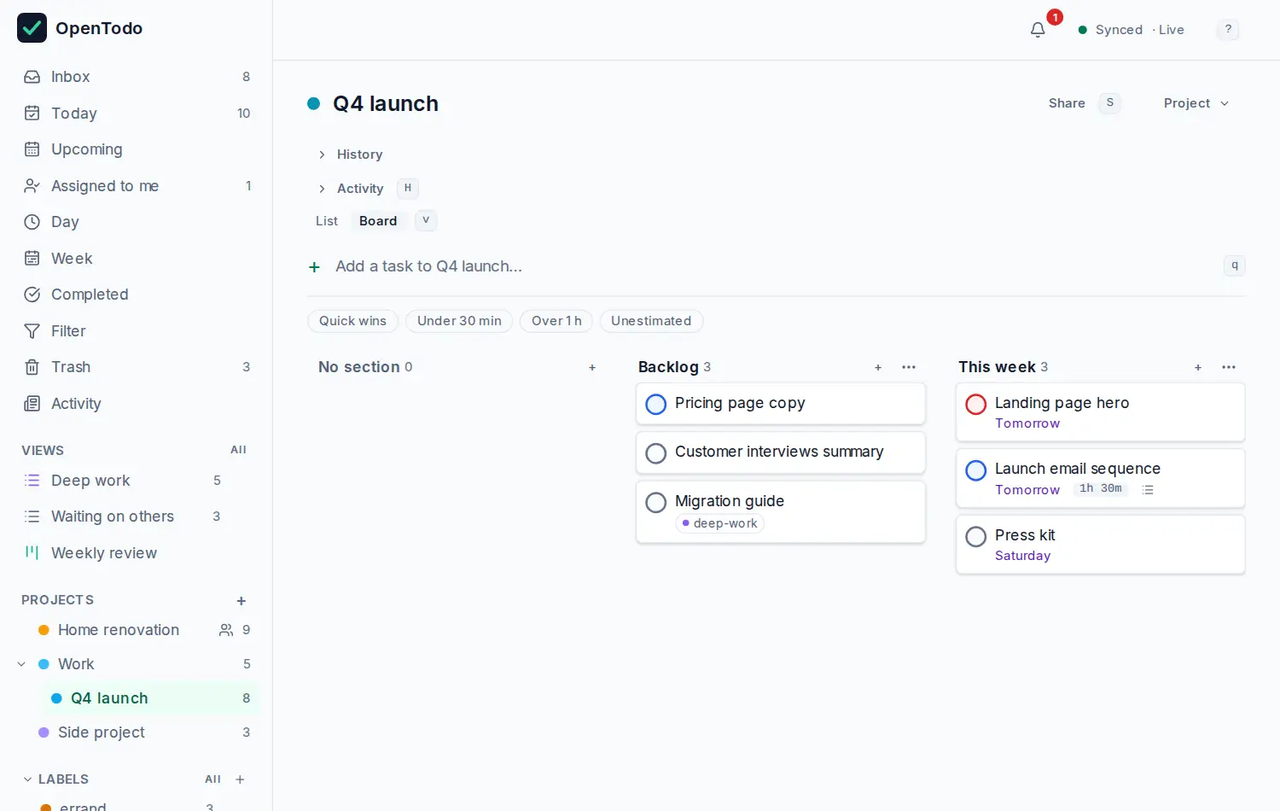
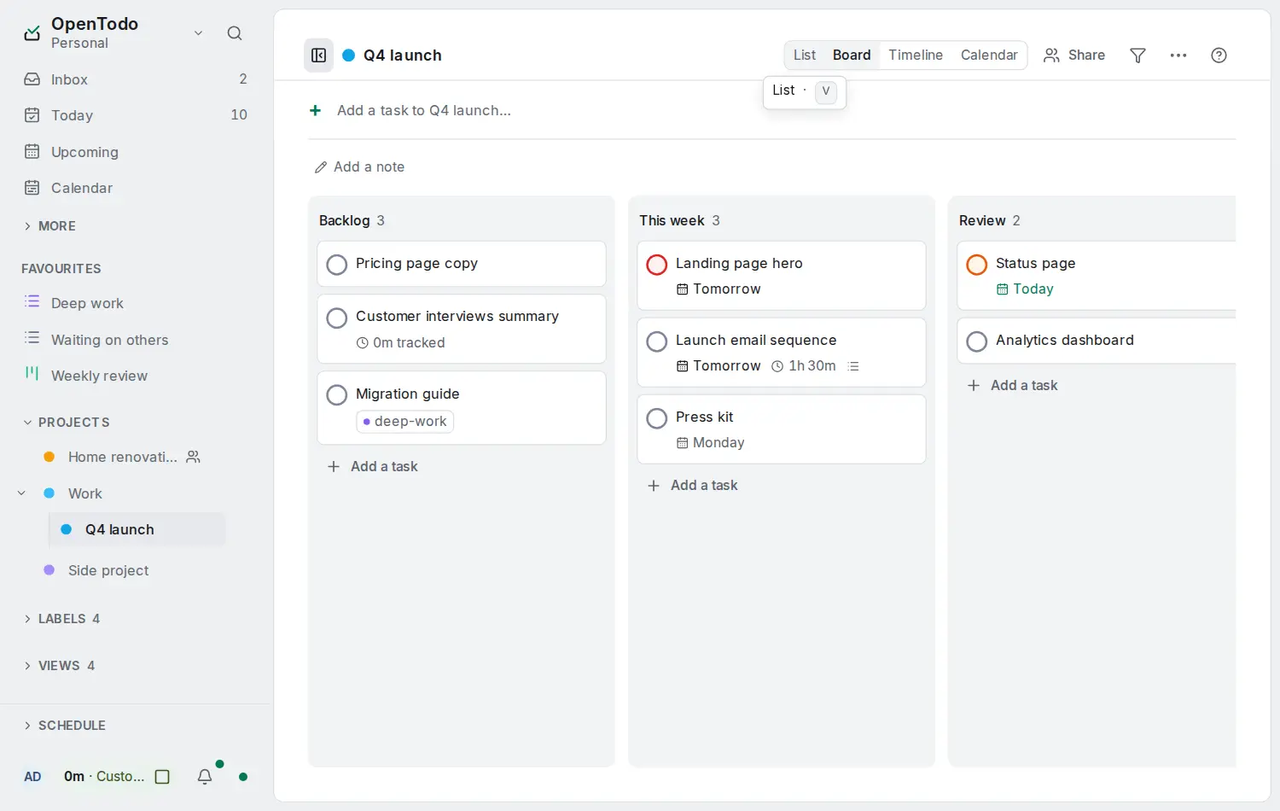
Brand: the tray mark on every remaining asset, all generated (brand-assets-everywhere)
The brand script now also writes the stores' icons it missed: Runtipi's
512 px JPEG logo (both copies, still the plain tick), the Home Assistant
add-on's 128 px icon and a 250 x 100 logo (the lockup on the slate
rounded rectangle, as Home Assistant recommends; it was a square of the
open-loop mark), the Claude plugin's 192 px icon, and Google Play's
1024 x 500 feature graphic in the brand kit. Pages can be opaque, and
icons can be JPEG. A test fails on any icon or logo file under the app
and deploy folders that the script does not write.

The docs pages' og:image names the kit's og-default card, which the
website serves from the bundle at /brand/kit/png/, with a test that the
bundle ships it.

Every product screenshot is captured again with its script, so the
sidebar shows the tray: the user guide (docs/images), the website's
shots (docs/screenshots/site), the README's PNGs and demo GIF, and the
CasaOS, Cosmos and Easypanel screenshots cut from them. The unused
docs/screenshots/social-preview.png (the old tick) is removed.

Claude-Session: https://claude.ai/code/session_01Bkw4TZLFDGeMdZR3vWZF13

diff --git a/docs/design-system.md b/docs/design-system.md
@@ -163,10 +163,10 @@ The mark is an open tray whose two upper ends turn inward, with a tick dropping 
 
 - **Source**: `web/src/ui/icons/brand.svg`, under 2 KB, two symbols: `mono` and `colour`. Every other brand file is generated from it.
 - **In the interface**: `<BrandMark size={24} />` (sizes 16, 20, 24, 32) draws `mono`: the tray in `currentColor` and the tick in `--ot-accent-text`, so it takes the tone of its row and the theme's accent. `<BrandWordmark />` is the text "OpenTodo" in the strong tone, set in the bundled Inter; it is never translated. Both come from the `ui` barrel; no screen uses an image of the icon.
-- **Elsewhere**: `colour` is a white tray and an emerald tick on a slate rounded square, the same in every theme, because it sits on other people's surfaces: the favicon, the manifest icons (192 and 512 px, a 512 px maskable icon that fills its square), the Apple touch icon, the browser extension's icons, the deploy catalogues' logos and `brand/` in the site bundle.
+- **Elsewhere**: `colour` is a white tray and an emerald tick on a slate rounded square, the same in every theme, because it sits on other people's surfaces: the favicon, the manifest icons (192 and 512 px, a 512 px maskable icon that fills its square), the Apple touch icon, the browser extension's icons, the deploy catalogues' logos and icons (Runtipi's JPEG logo, the Home Assistant add-on's icon and its 250 × 100 logo, the Claude plugin's icon among them) and `brand/` in the site bundle. A test fails on any file named like an icon or a logo under `web/public`, `extension`, `obsidian`, `mobile`, `deploy` or `docs/screenshots` that the script does not write.
 - **Native shells**: the iOS app icon (`AppIcon.png`, 1024 px, opaque, as the App Store requires) and the Android adaptive launcher icon (slate background, the colour strokes in the 66 dp safe zone, and a monochrome layer for themed icons) and notification icon (the mark as a white silhouette) are generated from the same source, the Android ones as vector drawables written from its path data.
 - **Wordmark source**: `web/src/ui/icons/wordmark.svg` is "OpenTodo" in Inter 4.0 SemiBold as one outlined path on the mark's 24-unit height, for files opened without Inter. In the interface the wordmark stays live text (`<BrandWordmark />`).
-- **Brand kit**: the top-level [`brand/`](https://github.com/OpenTodoApp/OpenTodo/tree/main/brand) folder holds the logo for use outside the code: the mark on light and dark backgrounds and in one colour, the colour icon (rounded and square) at 16 to 1024 px, the lockup with the outlined wordmark, an avatar, the GitHub social preview and a default social card, each listed with its use in `brand/README.md`. It is generated with everything else (`scripts/brand-kit.mjs`), and a test fails on a file added or edited there by hand.
+- **Brand kit**: the top-level [`brand/`](https://github.com/OpenTodoApp/OpenTodo/tree/main/brand) folder holds the logo for use outside the code: the mark on light and dark backgrounds and in one colour, the colour icon (rounded and square) at 16 to 1024 px, the lockup with the outlined wordmark, an avatar, the GitHub social preview, a default social card (the docs pages' social image on the website) and Google Play's feature graphic, each listed with its use in `brand/README.md`. It is generated with everything else (`scripts/brand-kit.mjs`), and a test fails on a file added or edited there by hand.
 - **Regenerating**: `make brand-icons` (`scripts/brand-icons.mjs`) renders every raster in the Chromium that Playwright brings, with no image dependency, writes the Android drawables as text, and writes `web/src/ui/icons/brand-icons.json` with the hash of the source and of each file. `scripts/brand-icons.test.mjs` (in `make repo-check` and `make test-extension`) fails when the source changed without regenerating or a generated file was edited by hand.
 
 The `Foundations/Brand` story shows the mono mark at every size beside a row's checkbox in two accent themes; its 16 px baseline is the legibility check.

diff --git a/openspec/changes/archive/2026-11-06-brand-assets-everywhere/proposal.md b/openspec/changes/archive/2026-11-06-brand-assets-everywhere/proposal.md
@@ -1,0 +1,40 @@
+# Proposal: brand-assets-everywhere
+
+## Why
+
+The tray mark (brand-mark-tray) and the brand kit (brand-kit) reach the app's icons, the extension, the native shells and most deploy catalogues, but an audit for release 0.23.0 found the old marks still shipping:
+
+- Runtipi's `logo.jpg` (both copies) is the plain tick from before sidebar-v2.
+- The Home Assistant add-on's `icon.png` and `logo.png`, and the Claude plugin's `icon.png`, are the open-loop mark of sidebar-v2. The add-on's logo is square, where Home Assistant asks for about 250 × 100.
+- The docs pages point their social image at `open-todo.app/assets/og.png`, a file the website removed (brand-from-bundle), so shared docs links have no card.
+- The product screenshots (the user guide's `docs/images/`, the website's `docs/screenshots/site/`, the README's PNGs and demo GIF, and the store screenshots made from them) show the open-loop mark in the sidebar.
+- `docs/screenshots/social-preview.png`, referenced nowhere, shows the plain tick.
+- Google Play's listing needs a 1024 × 500 feature graphic, which the kit does not have.
+
+Nothing stops the next hand-made icon either: the test only checks files the script lists.
+
+## What Changes
+
+- `scripts/brand-icons.mjs` also writes Runtipi's 512 px JPEG logo, the add-on's 128 px icon and a 250 × 100 logo (the lockup on the slate rounded rectangle, readable in light and dark themes), the Claude plugin's 192 px icon, and `brand/png/play-feature-graphic-1024x500.png` (opaque, as Play requires).
+- A test fails on any file named like an icon or a logo under `web/public`, `extension`, `obsidian`, `mobile`, `deploy` or `docs/screenshots` that the script does not write.
+- The docs pages' `og:image` is the kit's `og-default-1200x630.png`, served by the website from the bundle at `/brand/kit/png/`. A site-bundle test checks that the bundle ships the file it names.
+- The screenshots are captured again with their scripts (`make docs-screenshots`, `scripts/screenshots.mjs`, `scripts/demo-gif.mjs`) and the store screenshots re-cut with their documented recipe; the stray social preview is removed.
+
+## Out of scope
+
+- Files outside this repository that need the owner's accounts (organisation avatar, social preview setting, Discord, Buy Me a Coffee, Play listing, X) and the stores' own copies (TrueNAS media, the CasaOS, Cosmos, CapRover, Umbrel and other upstream repositories): they are listed for the owner.
+- The app's in-app mark, which already renders brand.svg.
+
+## Capabilities
+
+### New Capabilities
+
+None.
+
+### Modified Capabilities
+
+- `design-system`: a new requirement, "Brand assets outside the app".
+
+## Impact
+
+`scripts/brand-icons.mjs`, `scripts/brand-kit.mjs`, their test, `web/src/ui/icons/brand-icons.json`, `web/scripts/docs/site.mjs`, `scripts/site-bundle.test.mjs`, the regenerated files under `deploy/`, `brand/`, `docs/images/`, `docs/screenshots/`, and the docs that describe them. No change to the app's bundle, binary or image.

diff --git a/openspec/specs/design-system/spec.md b/openspec/specs/design-system/spec.md
@@ -1086,3 +1086,18 @@ On a touch screen every text input, text area, select and editable area, and the
 #### Scenario: A small field fails the check
 - **WHEN** a field with 13 px text is on a screen in the layout check's touch emulation
 - **THEN** the check fails naming the screen, the field and its size
+
+### Requirement: Brand assets outside the app
+Every file that shows the OpenTodo mark outside the running app SHALL be generated from the brand source by the brand script and recorded in its stamp, never made by hand: the deploy catalogues' icons and logos in every format a store asks for (including a JPEG logo and a wide logo of about 250 × 100 for the Home Assistant add-on), the AI assistant plugin's icon, and the brand kit's store images, including a 1024 × 500 Google Play feature graphic without an alpha channel. A test SHALL fail on an image named as an icon or a logo under the web app's public folder, the extension, the Obsidian plugin, the native shells, the deploy templates or the README screenshots that the script does not write. The docs pages' social image SHALL be the brand kit's default social card, a file the same site bundle ships.
+
+#### Scenario: A hand-made logo is added to a deploy template
+- **WHEN** someone adds `deploy/example/logo.png` without adding it to the brand script
+- **THEN** the brand test fails and names the file
+
+#### Scenario: The Home Assistant add-on's images
+- **WHEN** the brand script runs
+- **THEN** the add-on's `icon.png` is the colour icon at 128 × 128 and its `logo.png` is the lockup on the slate rounded rectangle at 250 × 100
+
+#### Scenario: A docs page is shared
+- **WHEN** a docs page from the site bundle is shared as a link
+- **THEN** its `og:image` names `/brand/kit/png/og-default-1200x630.png`, which the same bundle ships in `brand/kit/png/`

diff --git a/openspec/changes/archive/2026-11-06-brand-assets-everywhere/design.md b/openspec/changes/archive/2026-11-06-brand-assets-everywhere/design.md
@@ -1,0 +1,21 @@
+# Design: brand-assets-everywhere
+
+## D1. One script, more outputs
+
+The new files are entries in `OUTPUTS`, rendered the way the others are: a square icon at a size (`size`, `full` for edge-to-edge), or a `page` screenshotted at `width` × `height`. Two flags join `opaque`: `jpeg` writes a JPEG from Chromium's encoder (Runtipi requires `logo.jpg`), and `opaque` now also applies to pages, so the Play feature graphic has no alpha channel. No image library is added.
+
+## D2. The Home Assistant logo
+
+Home Assistant shows `logo.png` on the add-on page in light and dark themes and recommends about 250 × 100. The lockup on dark (white tray and wordmark, emerald tick) on the slate rounded rectangle reads on both, the same way the colour icon does. The lockup is 40 % of the height, centred.
+
+## D3. Guarding against hand-made icons
+
+A test walks the app and deploy folders and fails on a file whose name contains `icon`, `logo`, `favicon`, `apple-touch` or `pwa` with an image extension that is not an output. Screenshot folders of the stores are skipped (they are product screenshots, not marks); build and dependency folders too.
+
+## D4. The docs pages' social card
+
+The website serves the bundle's `brand/` at `/brand/` (press-kit D1), and from 0.23.0 the bundle carries `brand/kit/` (bundle-brand-kit). The docs pages name `/brand/kit/png/og-default-1200x630.png` with its size. Bundles before 0.23.0 do not have it, but their pages pointed at a missing file already.
+
+## Size
+
+The new rasters add about 60 KB to the repository; the screenshots are replaced in place. The app's bundle, binary and image are unchanged.

diff --git a/deploy/runtipi/README.md b/deploy/runtipi/README.md
@@ -6,7 +6,7 @@ The app, in Runtipi's native format (Runtipi 4.7.0 or newer):
 
 - [`config.json`](config.json): id `opentodo`, port 8400 (the host port when the user opens one), category `utilities`, `exposable` (a domain with https through Runtipi's Traefik), `version` = the release, `tipi_version` (raised on every change users should get), and four optional form fields: base URL, setup token, open sign-up, trusted proxies.
 - [`docker-compose.yml`](docker-compose.yml): the `opentodo` service (the key is the app id; `x-runtipi.is_main`, `internal_port: 8080`) with the **release tag** (`ghcr.io/opentodoapp/opentodo:0.22.0`; Runtipi's store test wants the tag to contain `version`), the health check, `${APP_DATA_DIR}/data` on `/data` and the form fields as `OPENTODO_*` with their defaults; and `opentodo-init`, a one-shot `busybox` that runs `chown -R 65532:65532 /data` before OpenTodo starts. Runtipi creates the data folder owned by root and only makes it writable (`chmod a+rwx`) after the first `compose up`, so without it the first start fails with `open /data/opentodo.lock: permission denied`. `restart: "no"` keeps Runtipi's default `unless-stopped` from restarting it after it finishes.
-- [`metadata/description.md`](metadata/description.md) and [`metadata/logo.jpg`](metadata/logo.jpg) (512×512, from `web/public/pwa-512.png`).
+- [`metadata/description.md`](metadata/description.md) and [`metadata/logo.jpg`](metadata/logo.jpg) (512×512 JPEG, rendered from the brand mark by `make brand-icons`).
 
 **Status: published** as our own app store, [`OpenTodoApp/opentodo-runtipi`](https://github.com/OpenTodoApp/opentodo-runtipi).
 

diff --git a/brand/README.md b/brand/README.md
@@ -7,12 +7,13 @@ Colours: slate `#0f172a`, emerald `#34d399` (on dark) and `#047857` (on light), 
 | File | Use |
 |---|---|
 | `svg/mark-colour.svg`, `png/icon-*.png` | The app icon: the mark on the slate rounded square, 16 to 1024 px |
-| `svg/mark-colour-square.svg`, `png/avatar-512.png` | The square without rounding, for avatars the platform crops itself (GitHub organisation, Discord, stores) |
+| `svg/mark-colour-square.svg`, `png/avatar-512.png` | The square without rounding, for avatars the platform crops itself (GitHub organisation, Discord, X, Buy Me a Coffee, the Google Play icon, stores) |
 | `svg/mark-on-light.svg`, `png/mark-on-light-*.png` | The mark alone on a light background: slate tray, dark emerald tick |
 | `svg/mark-on-dark.svg`, `png/mark-on-dark-*.png` | The mark alone on a dark background: white tray, emerald tick |
 | `svg/mark-black.svg`, `svg/mark-white.svg` and their PNGs | One colour, for print, stamps and embossing |
 | `svg/lockup-on-light.svg`, `svg/lockup-on-dark.svg` and their PNGs | The mark with "OpenTodo" beside it (headers, slides, a README) |
 | `png/github-social-preview-1280x640.png` | GitHub → Settings → Social preview |
 | `png/og-default-1200x630.png` | A default social card for link previews |
+| `png/play-feature-graphic-1024x500.png` | Google Play → Store listing → Feature graphic (opaque, no alpha) |
 
 Keep the tray and the tick in their two colours except in the one-colour files, never put the mark inside a checkbox or a closed square, and keep clear space of at least the tray's height around it.

diff --git a/openspec/changes/archive/2026-11-06-brand-assets-everywhere/specs/design-system/spec.md b/openspec/changes/archive/2026-11-06-brand-assets-everywhere/specs/design-system/spec.md
@@ -1,0 +1,16 @@
+## ADDED Requirements
+
+### Requirement: Brand assets outside the app
+Every file that shows the OpenTodo mark outside the running app SHALL be generated from the brand source by the brand script and recorded in its stamp, never made by hand: the deploy catalogues' icons and logos in every format a store asks for (including a JPEG logo and a wide logo of about 250 × 100 for the Home Assistant add-on), the AI assistant plugin's icon, and the brand kit's store images, including a 1024 × 500 Google Play feature graphic without an alpha channel. A test SHALL fail on an image named as an icon or a logo under the web app's public folder, the extension, the Obsidian plugin, the native shells, the deploy templates or the README screenshots that the script does not write. The docs pages' social image SHALL be the brand kit's default social card, a file the same site bundle ships.
+
+#### Scenario: A hand-made logo is added to a deploy template
+- **WHEN** someone adds `deploy/example/logo.png` without adding it to the brand script
+- **THEN** the brand test fails and names the file
+
+#### Scenario: The Home Assistant add-on's images
+- **WHEN** the brand script runs
+- **THEN** the add-on's `icon.png` is the colour icon at 128 × 128 and its `logo.png` is the lockup on the slate rounded rectangle at 250 × 100
+
+#### Scenario: A docs page is shared
+- **WHEN** a docs page from the site bundle is shared as a link
+- **THEN** its `og:image` names `/brand/kit/png/og-default-1200x630.png`, which the same bundle ships in `brand/kit/png/`

diff --git a/deploy/homeassistant/README.md b/deploy/homeassistant/README.md
@@ -12,7 +12,7 @@ Home Assistant OS and Supervised installations run add-ons (Home Assistant now c
 | `opentodo/run.sh` | Reads `/data/options.json` (written by the Supervisor before every start) and exports the matching `OPENTODO_*` variables, then runs OpenTodo |
 | `opentodo/translations/en.yaml` | The option names, with the catalogue's descriptions from `deploy/deploy.json` |
 | `opentodo/apparmor.txt` | OpenTodo runs in its own AppArmor profile: its binary, `/data`, the network and a few system files |
-| `opentodo/DOCS.md`, `README.md`, `CHANGELOG.md`, `icon.png` (128×128), `logo.png` | What Home Assistant shows on the add-on's tabs |
+| `opentodo/DOCS.md`, `README.md`, `CHANGELOG.md`, `icon.png` (128×128), `logo.png` (250×100) | What Home Assistant shows on the add-on's tabs; the icon and the logo are rendered from the brand mark by `make brand-icons` |
 | `.github/workflows/build.yaml` | Builds amd64 and aarch64 images with Home Assistant's builder actions and publishes `ghcr.io/opentodoapp/{amd64,aarch64}-opentodo-homeassistant` and the multi-arch `ghcr.io/opentodoapp/opentodo-homeassistant`; an existing tag is never rebuilt (`skip-existing`) |
 | `.github/workflows/test.yaml` | Home Assistant's add-on linter, ShellCheck, and a start of the image with an `options.json` that checks the options reach OpenTodo |
 | `.github/workflows/follow.yaml`, `scripts/bump.sh` | Follows OpenTodo's releases (below) |

diff --git a/openspec/changes/archive/2026-11-06-brand-assets-everywhere/tasks.md b/openspec/changes/archive/2026-11-06-brand-assets-everywhere/tasks.md
@@ -1,0 +1,18 @@
+# Tasks
+
+## 1. The generator
+
+- [x] 1.1 Extend `scripts/brand-icons.test.mjs` first: the Runtipi logos are JPEG outputs, the add-on's icon is 128 × 128 and its logo 250 × 100, the Claude plugin's icon 192 × 192, the Play feature graphic 1024 × 500 RGB; a stray icon or logo under the app and deploy folders fails. Verify they fail.
+- [x] 1.2 Add the outputs, `jpeg`, `opaque` pages, `bannerPage` and the feature graphic (D1, D2), and run `make brand-icons`. Verify the test passes, that a `deploy/zz/logo.png` makes the guard fail, and look at each new file.
+
+## 2. The docs pages' social card
+
+- [x] 2.1 Point `og:image` in `web/scripts/docs/site.mjs` at the kit's default card with its size (D4), with a test in `scripts/site-bundle.test.mjs` that the bundle ships the named file. Verify with `node --test scripts/site-bundle.test.mjs`.
+
+## 3. Screenshots
+
+- [x] 3.1 Capture the user guide's, the website's and the README's screenshots again with their scripts, re-cut the CasaOS, Cosmos and Easypanel screenshots with the recipe in `deploy/casaos/README.md`, and remove the unused `docs/screenshots/social-preview.png`. Verify the sidebar shows the tray mark.
+
+## 4. Docs and checks
+
+- [x] 4.1 Update `docs/design-system.md`, `deploy/runtipi/README.md` and `deploy/homeassistant/README.md`. Run `make docs-check`, `make repo-check`, `make deploy-check` and `make openspec-validate`.

diff --git a/CHANGELOG.md b/CHANGELOG.md
@@ -25,6 +25,7 @@ All notable changes to OpenTodo are documented here. The format follows [Keep a 
 
 ### Changed
 
+- **The new logo reaches the last places.** The Home Assistant add-on's icon and logo (now 250 × 100, as Home Assistant asks), Runtipi's logo, the Claude plugin's icon, every screenshot in the docs, the README and the website, and the card shown when a docs page is shared now show the tray mark. The brand kit gains Google Play's feature graphic, and a check fails on any icon or logo that is not generated from the mark.
 - **`by` in quick add sets the deadline.** `Install winter tires by March 31` now gives *Install winter tires* with a deadline of 31 March and no scheduled date, instead of scheduling it for that day. `on` and `due` still set the date you plan to do it, and the two combine: `Pay tax tomorrow by friday` is planned for tomorrow with a deadline on Friday. A time keeps `by` a due time, since a deadline has no time: `Call back by 5pm` is today at 17:00 (the word no longer stays in the title), and `Pay tax by friday 5pm` is due Friday at 17:00. German `bis`, Italian `entro` and Portuguese `até` work the same way; French `pour` and Spanish `para` still set the due date. The app, `ot add --natural` and the Obsidian plugin read lines the same way. See [Deadlines](docs/quick-add.md). ([#890](https://github.com/OpenTodoApp/OpenTodo/issues/890))
 
 ### Fixed
